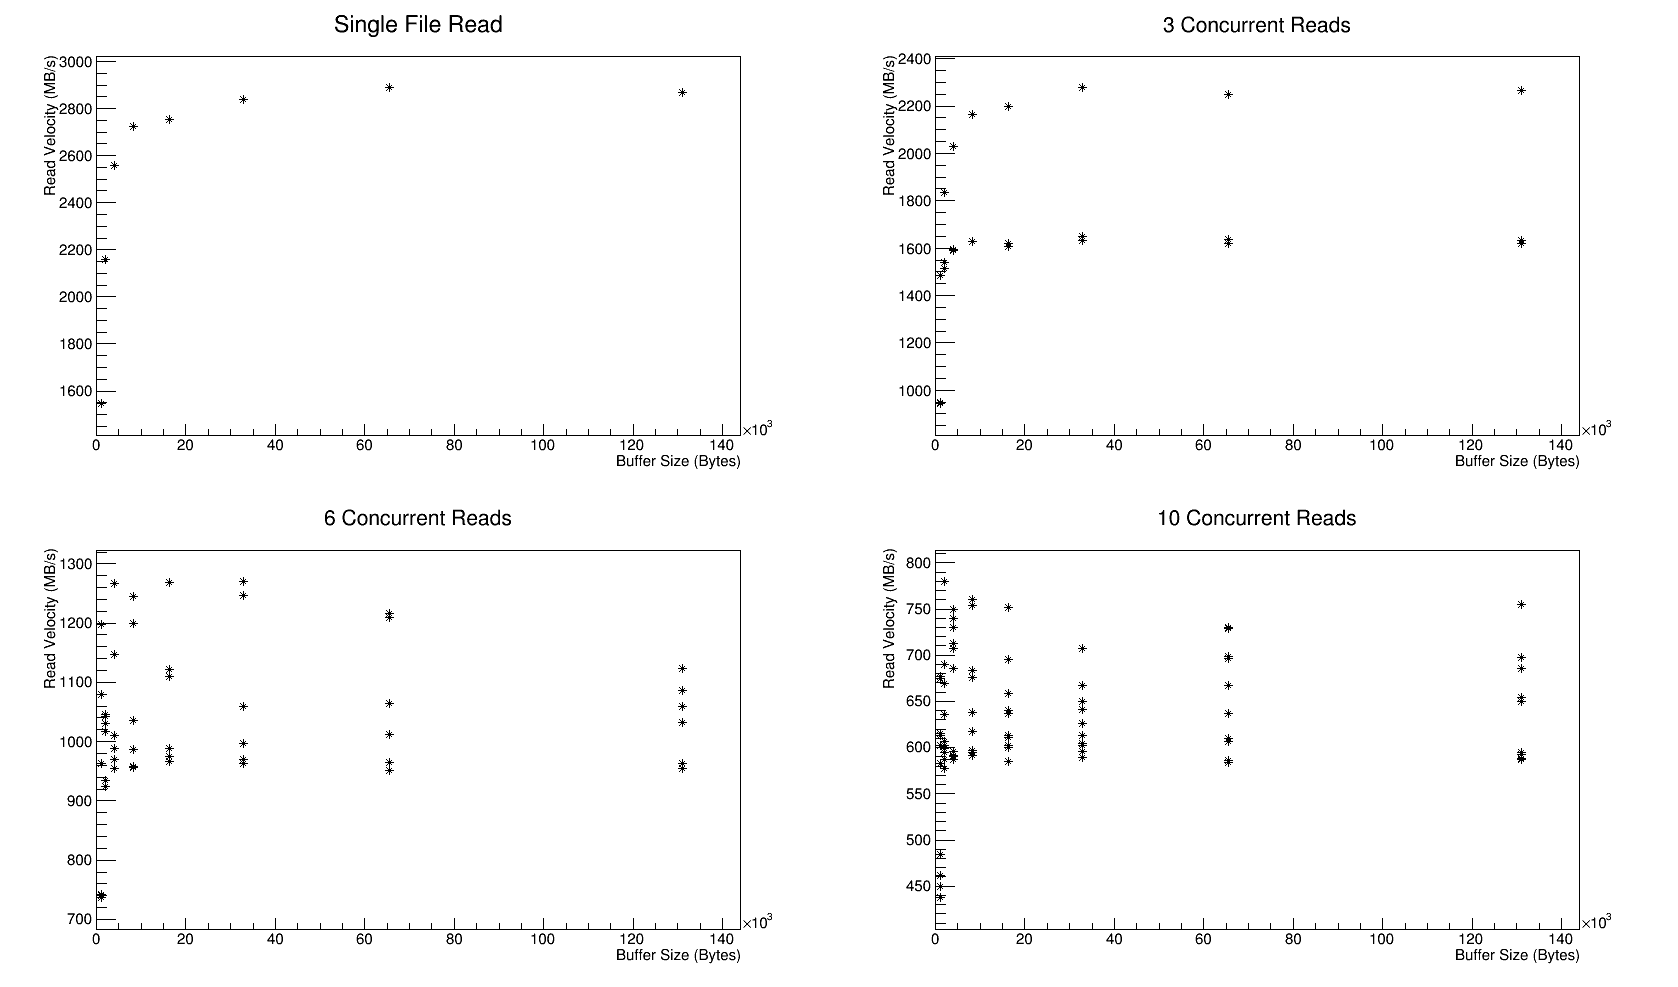
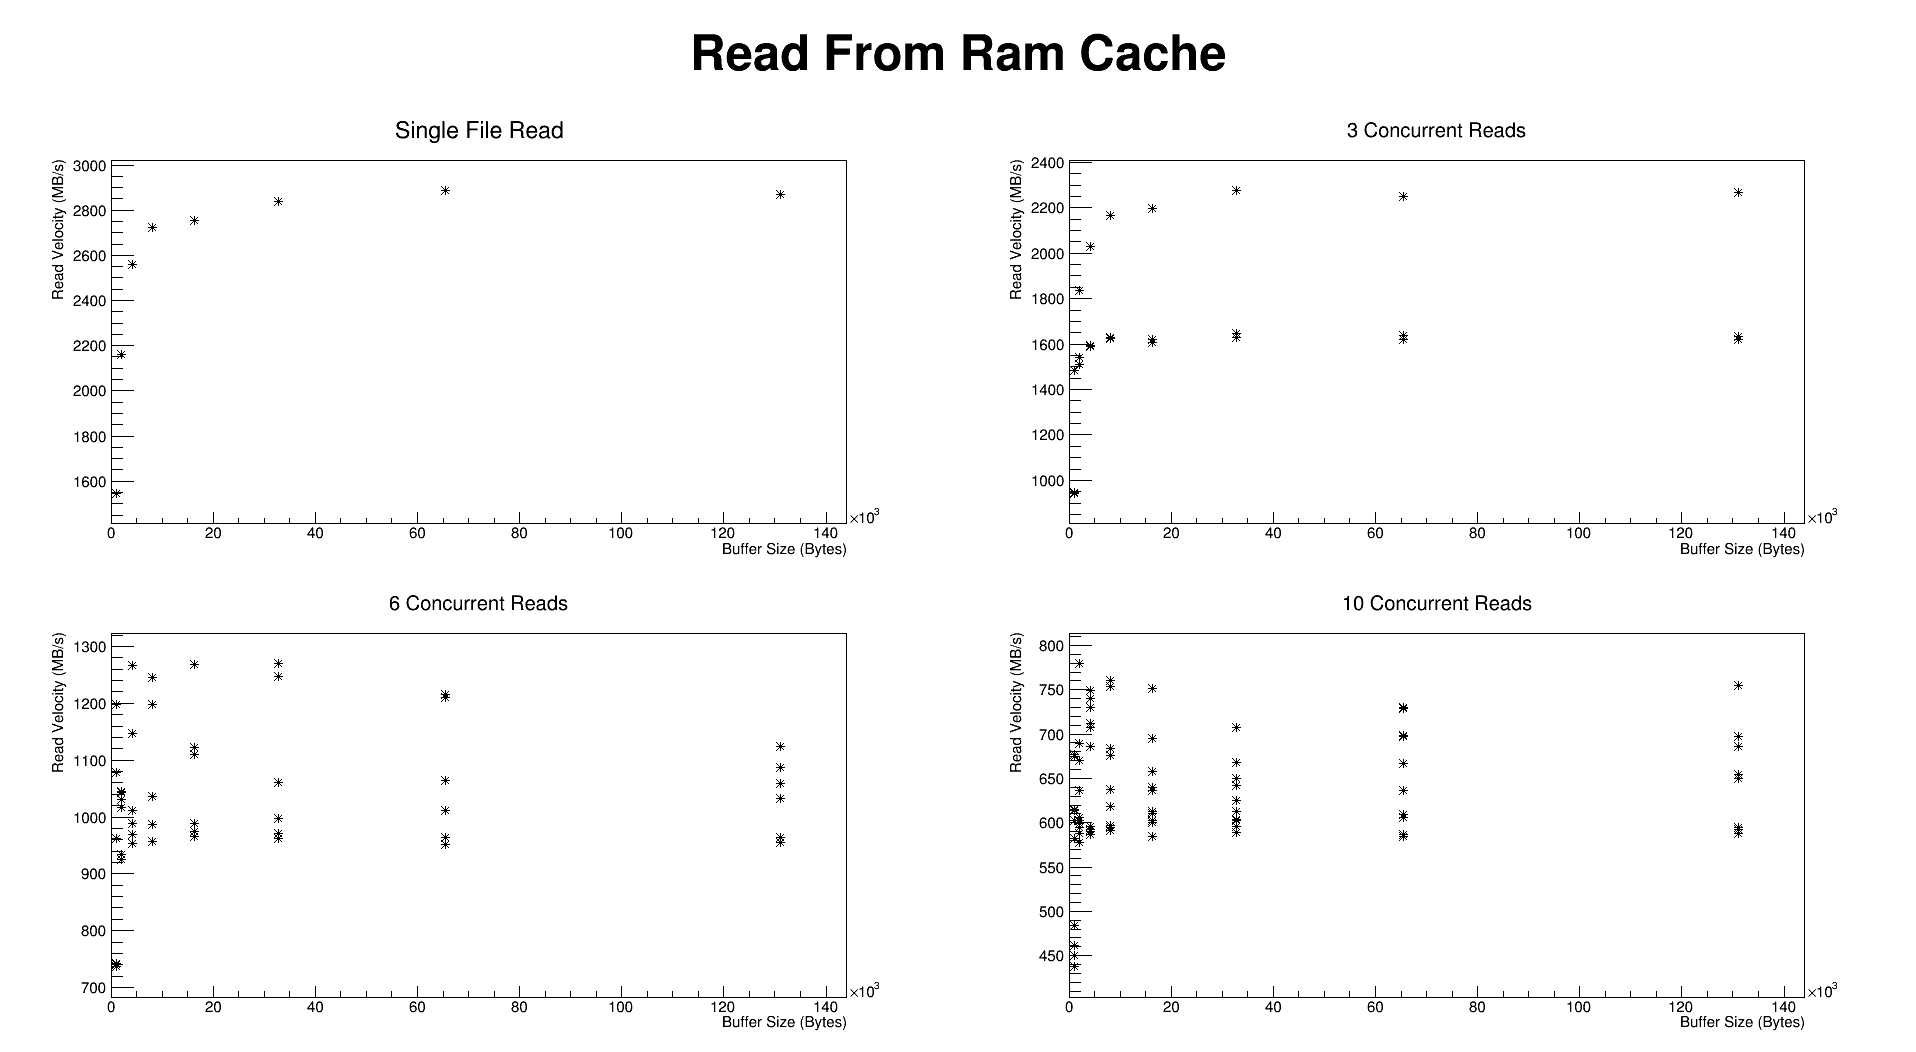
Updated plots with titles, added the title field on make_histograms.c, and updated slides with new images.

diff --git a/Summer_2015/IOHeavyCI/make_histograms.c b/Summer_2015/IOHeavyCI/make_histograms.c
@@ -17,7 +17,7 @@
 
 const short MaxNN = 6;
 */
-void make_histograms(TString data_file, TString plot_name)
+void make_histograms(TString data_file, TString plot_name, TString header)
 {
 	//TApplication program = new TInt 
 	//pull in data
@@ -25,7 +25,10 @@ void make_histograms(TString data_file, TString plot_name)
 	t->ReadFile(data_file);
 	
 	//TString name = "run2.png";
-	TCanvas *c = new TCanvas("c1", "Read Velocity on Local Disk for CMS3 Files", 1920, 1080);
+	TCanvas *BG = new TCanvas("c1", "Read Velocity on Local Disk for CMS3 Files", 1920, 1080);
+	BG->cd();
+	TPad *c = new TPad("MainPad", "My main pad", 0, 0, 1, 0.9);
+	c->Draw();
 	c->Divide(2,2);
 
 	//In first slot have Time vs. Buffer for 1 Concurrent Read
@@ -76,6 +79,12 @@ void make_histograms(TString data_file, TString plot_name)
 	//Initialize Canvas
 	
 	c->cd(0);
+	c->Draw();
+	
+	BG->cd();
+	TText *title = new TText(.5,.95, header);
+	title->SetTextAlign(22);
+	title->Draw();
 	
 	gPad->SaveAs(plot_name);
 }
